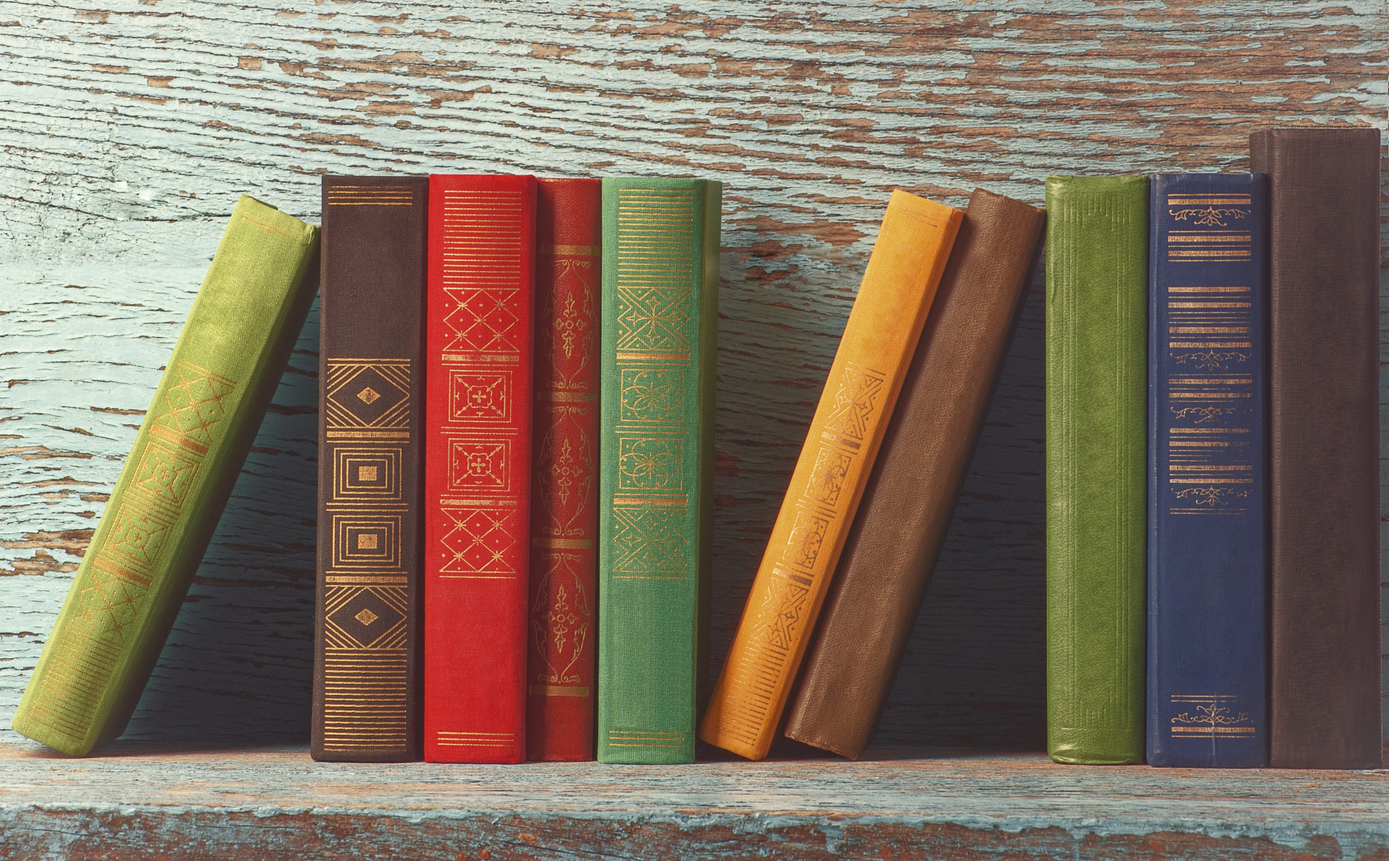
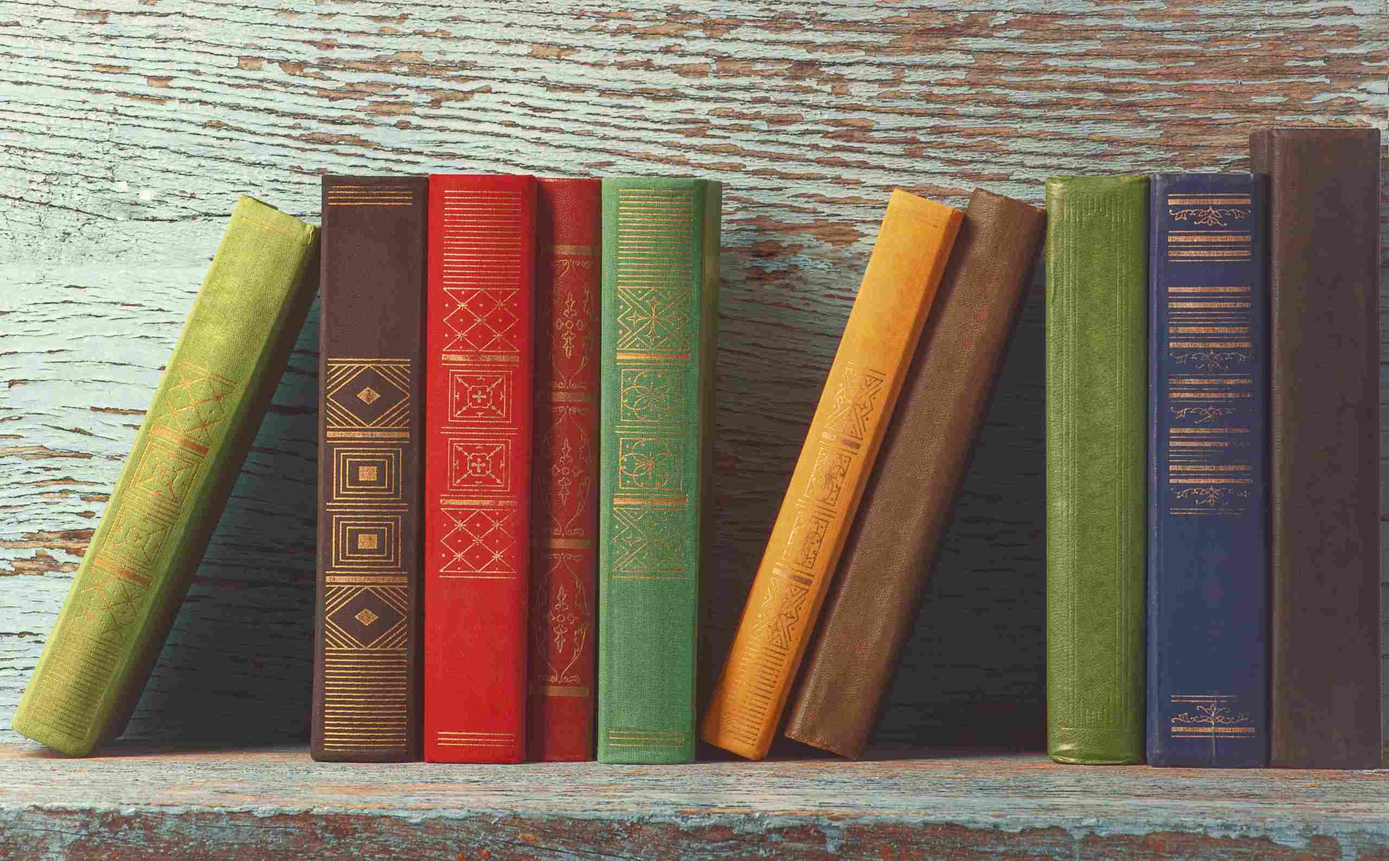
Update cdn imports and reduce image size

diff --git a/Pinocchio/Pinocchio/templates/index.html b/Pinocchio/Pinocchio/templates/index.html
@@ -2,11 +2,11 @@
 {% load static %}
 <html lang="en" dir="ltr">
   <head>
-    <meta charset="utf-8">
+    <meta name="viewport" content="width=device-width, initial-scale=1">
     <title>Pinocchio</title>
     <link rel="stylesheet" href="https://stackpath.bootstrapcdn.com/bootstrap/4.3.1/css/bootstrap.min.css" integrity="sha384-ggOyR0iXCbMQv3Xipma34MD+dH/1fQ784/j6cY/iJTQUOhcWr7x9JvoRxT2MZw1T" crossorigin="anonymous">
-    <script src="https://code.jquery.com/jquery-3.3.1.slim.min.js" integrity="sha384-q8i/X+965DzO0rT7abK41JStQIAqVgRVzpbzo5smXKp4YfRvH+8abtTE1Pi6jizo" crossorigin="anonymous"></script>
-    <script src="https://cdnjs.cloudflare.com/ajax/libs/popper.js/1.14.7/umd/popper.min.js" integrity="sha384-UO2eT0CpHqdSJQ6hJty5KVphtPhzWj9WO1clHTMGa3JDZwrnQq4sF86dIHNDz0W1" crossorigin="anonymous"></script>
+    <script src="https://code.jquery.com/jquery-3.6.0.slim.min.js" integrity="sha256-u7e5khyithlIdTpu22PHhENmPcRdFiHRjhAuHcs05RI=" crossorigin="anonymous"></script>
+    <script src="https://cdnjs.cloudflare.com/ajax/libs/popper.js/2.9.2/umd/popper.min.js" integrity="sha512-2rNj2KJ+D8s1ceNasTIex6z4HWyOnEYLVC3FigGOmyQCZc2eBXKgOxQmo3oKLHyfcj53uz4QMsRCWNbLd32Q1g==" crossorigin="anonymous" referrerpolicy="no-referrer"></script>
     <script src="https://stackpath.bootstrapcdn.com/bootstrap/4.3.1/js/bootstrap.min.js" integrity="sha384-JjSmVgyd0p3pXB1rRibZUAYoIIy6OrQ6VrjIEaFf/nJGzIxFDsf4x0xIM+B07jRM" crossorigin="anonymous"></script>
     <script type="text/javascript" src="https://cdn.jsdelivr.net/jquery/latest/jquery.min.js"></script>
     <script type="text/javascript" src="https://cdn.jsdelivr.net/momentjs/latest/moment.min.js"></script>

diff --git a/Pinocchio/Pinocchio/settings.py b/Pinocchio/Pinocchio/settings.py
@@ -11,7 +11,6 @@ https://docs.djangoproject.com/en/3.2/ref/settings/
 """
 
 from pathlib import Path
-import os
 
 # Build paths inside the project like this: BASE_DIR / 'subdir'.
 BASE_DIR = Path(__file__).resolve().parent.parent
@@ -99,18 +98,6 @@ DATABASES = {
         'PORT': "5432",
     }
 }
-
-if os.environ.get('GITHUB_WORKFLOW'):
-    DATABASES = {
-        'default': {
-           'ENGINE': 'django.db.backends.postgresql',
-           'NAME': 'pinocchiodb',
-           'USER': 'postgres',
-           'PASSWORD': 'postgres',
-           'HOST': '127.0.0.1',
-           'PORT': '5432',
-        }
-    }
 
 # Password validation
 # https://docs.djangoproject.com/en/3.2/ref/settings/#auth-password-validators
